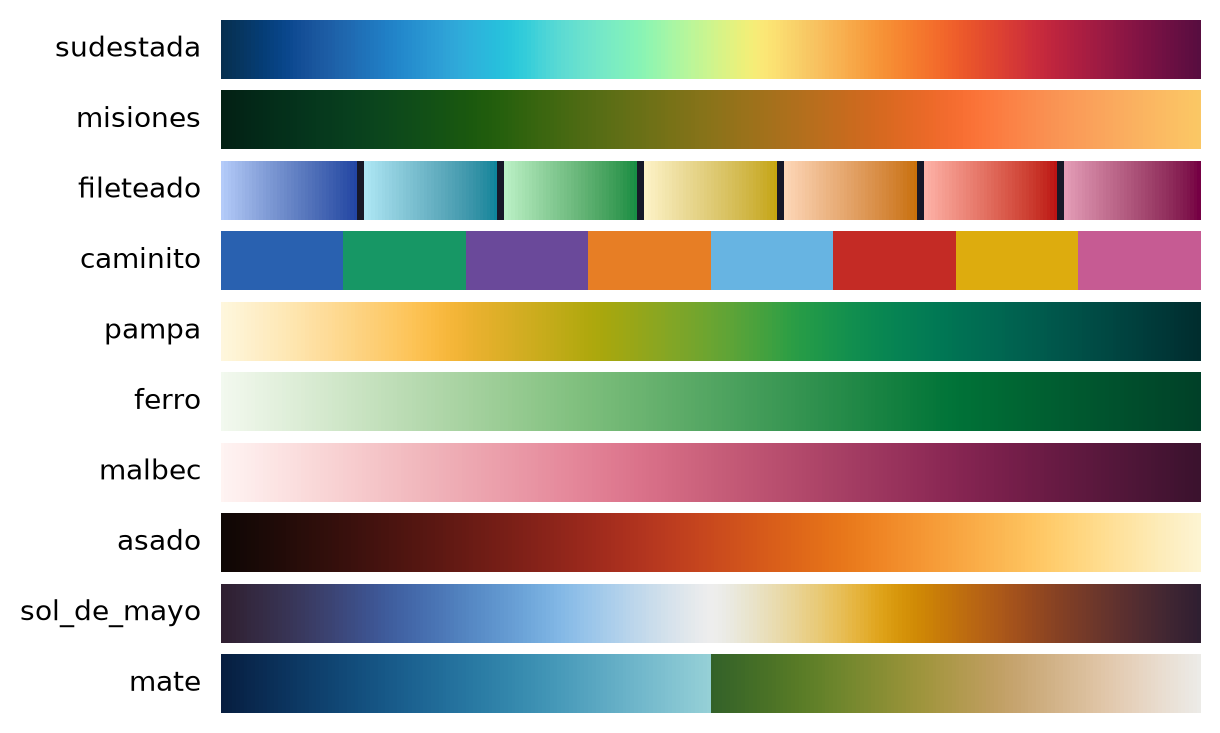
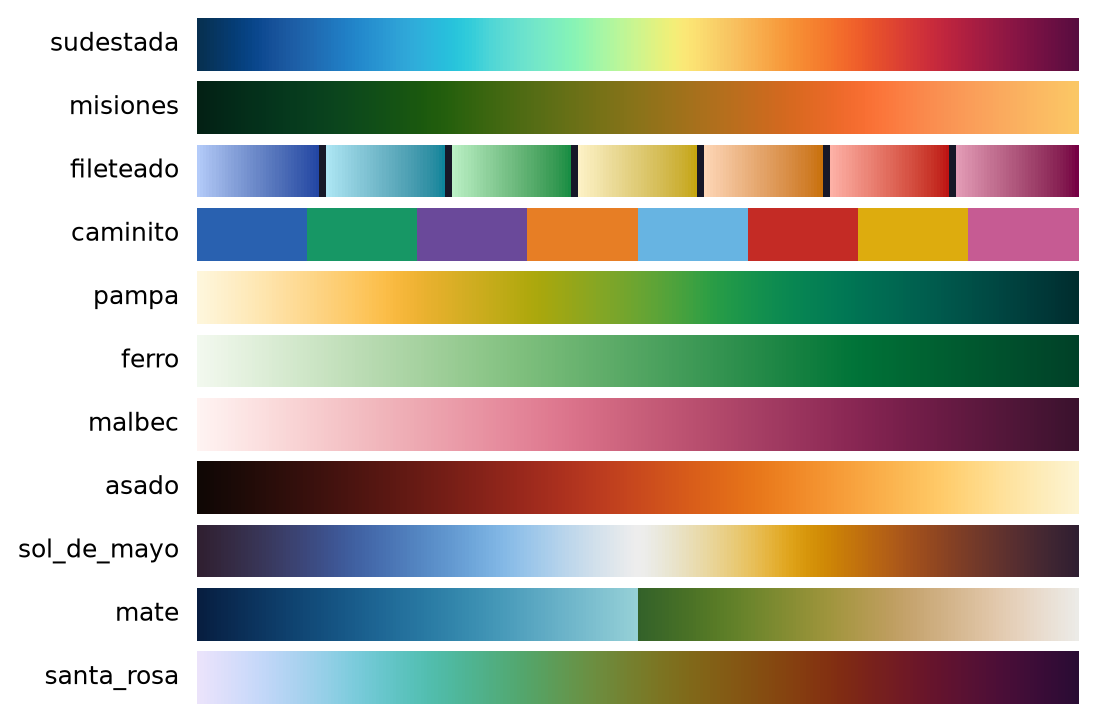
colormap nueva, santa_rosa

diff --git a/cmargentina.py b/cmargentina.py
@@ -2359,6 +2359,264 @@ MAPS = {
 0.9270 0.9165 0.8972
 0.9294 0.9216 0.9059
 """,
+    "santa_rosa": """
+0.9216 0.8941 0.9843
+0.9141 0.8915 0.9844
+0.9066 0.8889 0.9844
+0.8990 0.8862 0.9845
+0.8913 0.8836 0.9845
+0.8835 0.8810 0.9845
+0.8756 0.8784 0.9844
+0.8676 0.8757 0.9843
+0.8595 0.8731 0.9841
+0.8512 0.8705 0.9838
+0.8429 0.8679 0.9835
+0.8344 0.8653 0.9829
+0.8258 0.8628 0.9823
+0.8170 0.8602 0.9815
+0.8082 0.8577 0.9805
+0.7992 0.8552 0.9794
+0.7901 0.8527 0.9781
+0.7810 0.8502 0.9765
+0.7717 0.8478 0.9747
+0.7624 0.8454 0.9727
+0.7530 0.8430 0.9704
+0.7435 0.8406 0.9678
+0.7340 0.8383 0.9649
+0.7245 0.8360 0.9618
+0.7149 0.8338 0.9584
+0.7053 0.8317 0.9549
+0.6956 0.8298 0.9513
+0.6857 0.8280 0.9476
+0.6758 0.8262 0.9439
+0.6657 0.8246 0.9401
+0.6556 0.8231 0.9362
+0.6453 0.8216 0.9322
+0.6349 0.8202 0.9282
+0.6243 0.8188 0.9240
+0.6136 0.8174 0.9198
+0.6027 0.8160 0.9155
+0.5917 0.8147 0.9111
+0.5806 0.8133 0.9066
+0.5693 0.8119 0.9019
+0.5580 0.8105 0.8971
+0.5465 0.8089 0.8921
+0.5350 0.8074 0.8869
+0.5235 0.8057 0.8816
+0.5120 0.8038 0.8760
+0.5007 0.8019 0.8702
+0.4897 0.7997 0.8642
+0.4790 0.7972 0.8578
+0.4690 0.7946 0.8512
+0.4593 0.7920 0.8442
+0.4498 0.7895 0.8370
+0.4407 0.7870 0.8295
+0.4318 0.7846 0.8219
+0.4231 0.7822 0.8141
+0.4147 0.7799 0.8061
+0.4065 0.7775 0.7981
+0.3985 0.7752 0.7899
+0.3907 0.7729 0.7816
+0.3831 0.7706 0.7732
+0.3758 0.7683 0.7647
+0.3687 0.7659 0.7562
+0.3618 0.7635 0.7476
+0.3553 0.7611 0.7388
+0.3490 0.7586 0.7301
+0.3432 0.7561 0.7212
+0.3377 0.7534 0.7123
+0.3327 0.7507 0.7033
+0.3282 0.7479 0.6942
+0.3243 0.7450 0.6852
+0.3210 0.7420 0.6761
+0.3185 0.7388 0.6669
+0.3168 0.7355 0.6578
+0.3154 0.7321 0.6487
+0.3144 0.7288 0.6394
+0.3136 0.7255 0.6302
+0.3130 0.7223 0.6209
+0.3127 0.7190 0.6116
+0.3126 0.7158 0.6023
+0.3126 0.7125 0.5929
+0.3128 0.7093 0.5835
+0.3131 0.7060 0.5740
+0.3135 0.7027 0.5645
+0.3141 0.6995 0.5550
+0.3147 0.6962 0.5454
+0.3154 0.6929 0.5359
+0.3162 0.6895 0.5262
+0.3171 0.6862 0.5166
+0.3180 0.6827 0.5069
+0.3191 0.6793 0.4972
+0.3201 0.6758 0.4875
+0.3212 0.6722 0.4778
+0.3224 0.6686 0.4681
+0.3236 0.6649 0.4585
+0.3248 0.6611 0.4488
+0.3261 0.6572 0.4392
+0.3281 0.6533 0.4297
+0.3308 0.6492 0.4203
+0.3342 0.6451 0.4109
+0.3380 0.6409 0.4016
+0.3423 0.6367 0.3924
+0.3469 0.6324 0.3833
+0.3517 0.6280 0.3743
+0.3566 0.6236 0.3654
+0.3618 0.6192 0.3566
+0.3669 0.6147 0.3479
+0.3722 0.6102 0.3392
+0.3774 0.6056 0.3307
+0.3826 0.6010 0.3223
+0.3877 0.5963 0.3139
+0.3928 0.5916 0.3057
+0.3978 0.5868 0.2976
+0.4026 0.5820 0.2897
+0.4073 0.5771 0.2819
+0.4119 0.5722 0.2742
+0.4163 0.5673 0.2668
+0.4204 0.5623 0.2596
+0.4244 0.5572 0.2526
+0.4281 0.5521 0.2459
+0.4317 0.5469 0.2394
+0.4353 0.5418 0.2329
+0.4389 0.5367 0.2264
+0.4425 0.5315 0.2199
+0.4461 0.5264 0.2135
+0.4497 0.5212 0.2071
+0.4532 0.5161 0.2007
+0.4566 0.5109 0.1944
+0.4600 0.5058 0.1882
+0.4633 0.5006 0.1820
+0.4666 0.4954 0.1759
+0.4697 0.4902 0.1699
+0.4728 0.4850 0.1640
+0.4758 0.4798 0.1582
+0.4787 0.4746 0.1525
+0.4815 0.4693 0.1470
+0.4842 0.4641 0.1416
+0.4868 0.4588 0.1365
+0.4892 0.4536 0.1315
+0.4915 0.4483 0.1268
+0.4937 0.4430 0.1224
+0.4958 0.4377 0.1182
+0.4977 0.4325 0.1145
+0.4994 0.4272 0.1110
+0.5011 0.4219 0.1078
+0.5028 0.4167 0.1047
+0.5044 0.4114 0.1019
+0.5059 0.4062 0.0992
+0.5074 0.4009 0.0967
+0.5088 0.3957 0.0944
+0.5101 0.3904 0.0922
+0.5114 0.3852 0.0902
+0.5126 0.3799 0.0883
+0.5137 0.3746 0.0865
+0.5148 0.3694 0.0849
+0.5158 0.3641 0.0833
+0.5167 0.3588 0.0818
+0.5176 0.3536 0.0805
+0.5184 0.3483 0.0791
+0.5190 0.3430 0.0779
+0.5197 0.3376 0.0767
+0.5202 0.3323 0.0755
+0.5207 0.3270 0.0743
+0.5210 0.3216 0.0732
+0.5213 0.3162 0.0720
+0.5215 0.3108 0.0708
+0.5217 0.3053 0.0696
+0.5219 0.2999 0.0686
+0.5221 0.2944 0.0677
+0.5223 0.2889 0.0668
+0.5225 0.2834 0.0661
+0.5227 0.2779 0.0655
+0.5228 0.2723 0.0650
+0.5229 0.2667 0.0646
+0.5229 0.2611 0.0643
+0.5228 0.2555 0.0641
+0.5227 0.2498 0.0641
+0.5224 0.2441 0.0641
+0.5221 0.2384 0.0642
+0.5216 0.2326 0.0645
+0.5210 0.2269 0.0648
+0.5202 0.2211 0.0653
+0.5193 0.2153 0.0659
+0.5181 0.2095 0.0667
+0.5168 0.2038 0.0676
+0.5152 0.1981 0.0686
+0.5134 0.1924 0.0698
+0.5112 0.1869 0.0712
+0.5087 0.1815 0.0728
+0.5058 0.1763 0.0746
+0.5027 0.1714 0.0768
+0.4995 0.1666 0.0796
+0.4964 0.1619 0.0829
+0.4932 0.1575 0.0864
+0.4900 0.1531 0.0902
+0.4867 0.1489 0.0942
+0.4835 0.1447 0.0983
+0.4802 0.1407 0.1025
+0.4768 0.1368 0.1067
+0.4735 0.1329 0.1110
+0.4700 0.1292 0.1153
+0.4666 0.1255 0.1195
+0.4630 0.1218 0.1238
+0.4594 0.1182 0.1280
+0.4558 0.1147 0.1321
+0.4520 0.1113 0.1362
+0.4481 0.1079 0.1402
+0.4442 0.1046 0.1441
+0.4401 0.1014 0.1478
+0.4359 0.0983 0.1515
+0.4316 0.0952 0.1550
+0.4271 0.0923 0.1583
+0.4225 0.0896 0.1615
+0.4177 0.0871 0.1646
+0.4128 0.0848 0.1677
+0.4078 0.0827 0.1708
+0.4028 0.0809 0.1739
+0.3977 0.0792 0.1770
+0.3926 0.0777 0.1800
+0.3874 0.0763 0.1830
+0.3821 0.0750 0.1859
+0.3769 0.0738 0.1887
+0.3716 0.0727 0.1915
+0.3662 0.0716 0.1941
+0.3609 0.0706 0.1967
+0.3555 0.0696 0.1992
+0.3501 0.0687 0.2015
+0.3446 0.0677 0.2037
+0.3392 0.0667 0.2058
+0.3337 0.0657 0.2077
+0.3282 0.0647 0.2095
+0.3227 0.0636 0.2112
+0.3171 0.0624 0.2126
+0.3116 0.0612 0.2139
+0.3060 0.0598 0.2150
+0.3004 0.0584 0.2159
+0.2947 0.0571 0.2167
+0.2890 0.0560 0.2173
+0.2832 0.0550 0.2178
+0.2774 0.0542 0.2182
+0.2715 0.0534 0.2185
+0.2657 0.0528 0.2186
+0.2598 0.0523 0.2186
+0.2538 0.0519 0.2186
+0.2479 0.0515 0.2183
+0.2420 0.0512 0.2180
+0.2360 0.0509 0.2176
+0.2300 0.0506 0.2170
+0.2241 0.0504 0.2163
+0.2181 0.0501 0.2155
+0.2122 0.0499 0.2147
+0.2062 0.0497 0.2137
+0.2002 0.0494 0.2126
+0.1943 0.0491 0.2113
+0.1884 0.0488 0.2100
+0.1824 0.0484 0.2086
+0.1765 0.0480 0.2072
+0.1706 0.0476 0.2056
+0.1647 0.0471 0.2039
+""",
 }
 
 for _name, _rgb in MAPS.items():

diff --git a/design.py b/design.py
@@ -43,6 +43,8 @@ MAPS = {
                               ramp("#eeeeee #dda016 #9c4d1e #301f31".split(), 128)]),
     "mate": np.vstack([ramp("#071e40 #185a89 #4d9ebc #96d0d7".split(), 128),
                        ramp("#34622a #5d7e28 #99933a #c7a570 #e0c6a8 #edebe7".split(), 128)]),
+    "santa_rosa": ramp("#ebe4fb #b8d5f5 #79cbda #51bca9 #53a871 #6d8d3f #7f6e1d #854f12 "
+                       "#812d13 #6c1729 #4d0f37 #2a0c34".split(), lightness=1.6),
 }
 
 CODE = '''

diff --git a/README.md b/README.md
@@ -65,3 +65,9 @@ https://en.wikipedia.org/wiki/Malbec
 https://en.wikipedia.org/wiki/Pampas
 
 ![pampa](img/pampa.png)
+
+## santa_rosa
+
+https://es.wikipedia.org/wiki/Tormenta_de_Santa_Rosa
+
+![santa_rosa](img/santa_rosa.png)
